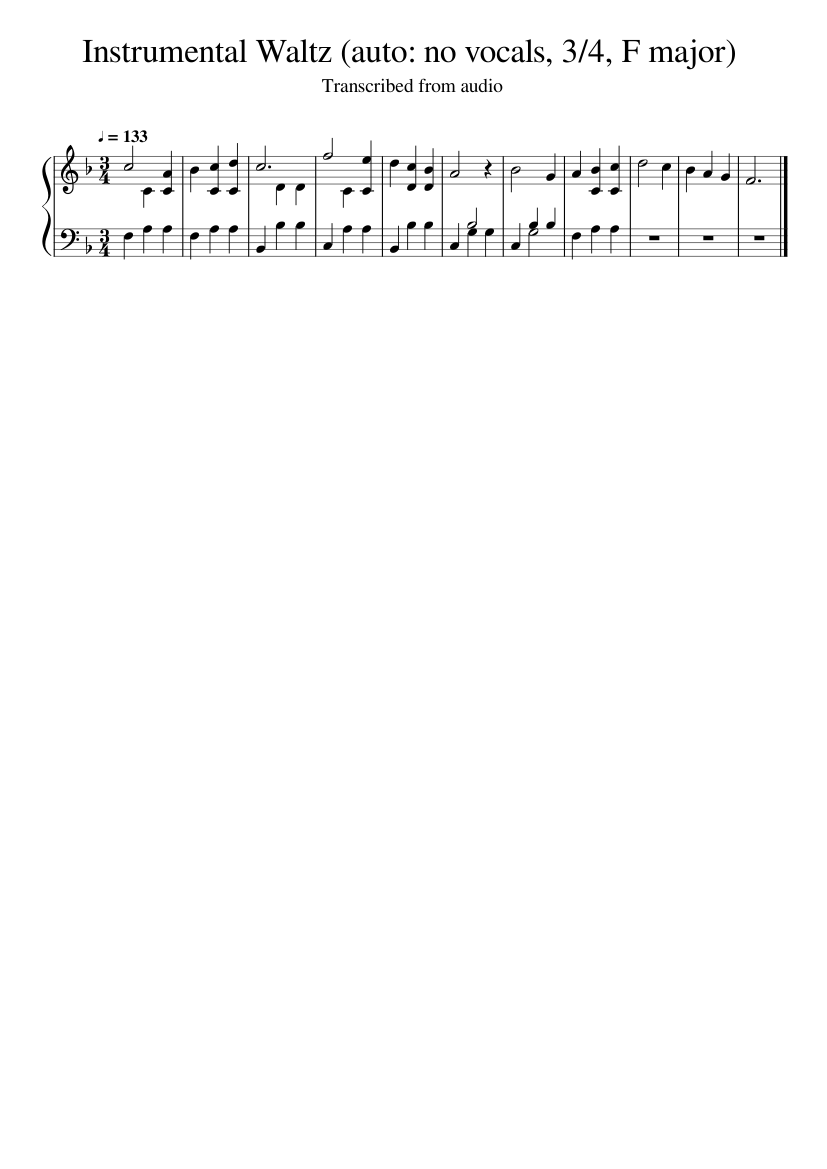
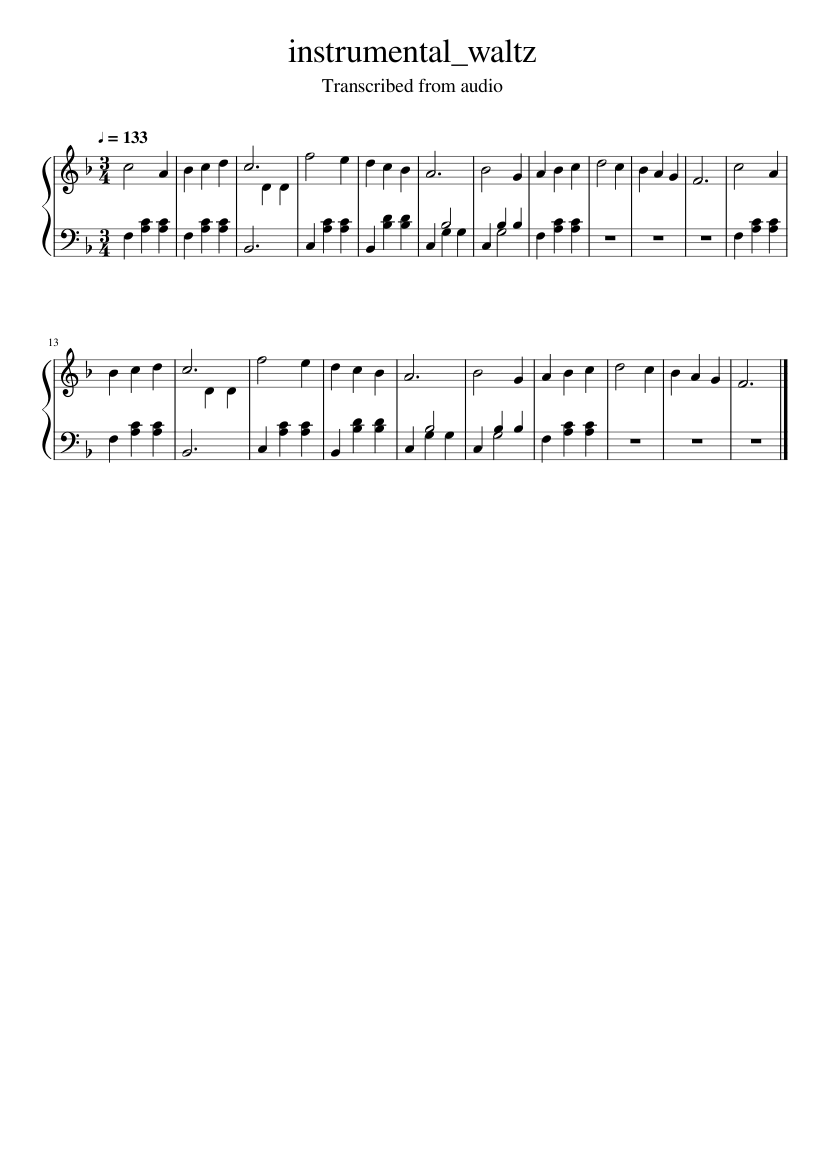
Piano-solo version drops semitone clashes under the tune; regenerate examples
Notes a semitone below the sung tune are almost always the voice leaking
into the accompaniment analysis. Examples rebuilt with the current version
(and checked in MuseScore 3.2.3), plus the synthetic song as an easy piano
solo; captions corrected (the voice line has one extra semiquaver).

Claude-Session: https://claude.ai/code/session_0187UhkULfXXiVcFNcss5D2o

diff --git a/sheetmusic/pipeline.py b/sheetmusic/pipeline.py
@@ -384,8 +384,9 @@ def _drop_weak_out_of_key(notes: list[QNote], fifths: int, mode: str, tpb: int) 
 def _tune_into_right_hand(tune: list[QNote], piano: list[QNote]) -> list[QNote]:
     """Piano-solo version of a song: the sung line becomes the top of the
     right hand.  A low (male) tune is played an octave up, where a right hand
-    plays; piano notes at or above the tune while it sounds would hide it and
-    are left out."""
+    plays.  Piano notes at or above the tune while it sounds would hide it,
+    and notes a semitone below it are almost always the voice leaking into the
+    accompaniment analysis (vibrato, scoops): both are left out."""
     shift = 12 if np.median([q.pitch for q in tune]) < 60 else 0
     t = [QNote(q.start, q.end, q.pitch + shift, max(q.velocity, 100), False, 1) for q in tune]
     starts = np.array([q.start for q in t])
@@ -395,7 +396,7 @@ def _tune_into_right_hand(tune: list[QNote], piano: list[QNote]) -> list[QNote]:
     kept = []
     for q in piano:
         i = int(np.searchsorted(starts, q.end))          # tune notes starting before q ends
-        hidden = any(x.end > q.start and q.pitch >= x.pitch for x in t[max(0, i - 8):i])
+        hidden = any(x.end > q.start and q.pitch >= x.pitch - 1 for x in t[max(0, i - 8):i])
         if not hidden:
             kept.append(q)
     return sorted(kept + t, key=lambda q: (q.start, q.pitch))

diff --git a/README.md b/README.md
@@ -20,17 +20,26 @@ How accurate it is on real recordings, measured, is in "Accuracy, honestly" belo
 
 ![example](examples/synthetic_song.png)
 
-*Output for the synthetic test song in `tests/synth.py`. The "singer" there is made
-hard to transcribe on purpose: a weak fundamental, vowel formants that change on
-every note, vibrato, pitch scoops into each note, and consonant noise. Behind it are
-piano chords that double the voice an octave lower, plus bass and drums. The voice
-line comes out note-for-note correct.*
+*Output for the synthetic test song in `tests/synth.py`, default settings. The
+"singer" there is made hard to transcribe on purpose: a weak fundamental, vowel
+formants that change on every note, vibrato, pitch scoops into each note, and
+consonant noise. Behind it are piano chords that double the voice an octave lower,
+plus bass and drums. The voice line comes out right except for one extra semiquaver
+where the second phrase starts (bar 5). The piano part is the weaker half: it still
+has stray notes where the voice leaks into it.*
+
+![easy piano solo](examples/synthetic_song_easy_solo.png)
+
+*The same song as an easy piano solo: `--mode accompaniment --melody-in-piano
+--arrangement easy`. The sung tune is the right hand's top line; the left hand plays
+the bass in minims.*
 
 ![instrumental example](examples/instrumental_waltz.png)
 
 *An instrumental piano waltz (`tests/synth_instr.py`). The program detected on its
 own that there are no vocals, that it is in 3/4 at 133 BPM, and that it is in
-F major, then transcribed it as a piano score.*
+F major, then wrote it as a playable piano score. (The synthetic piece's
+accompaniment simply stops before its tune does.)*
 
 ## Install
 
